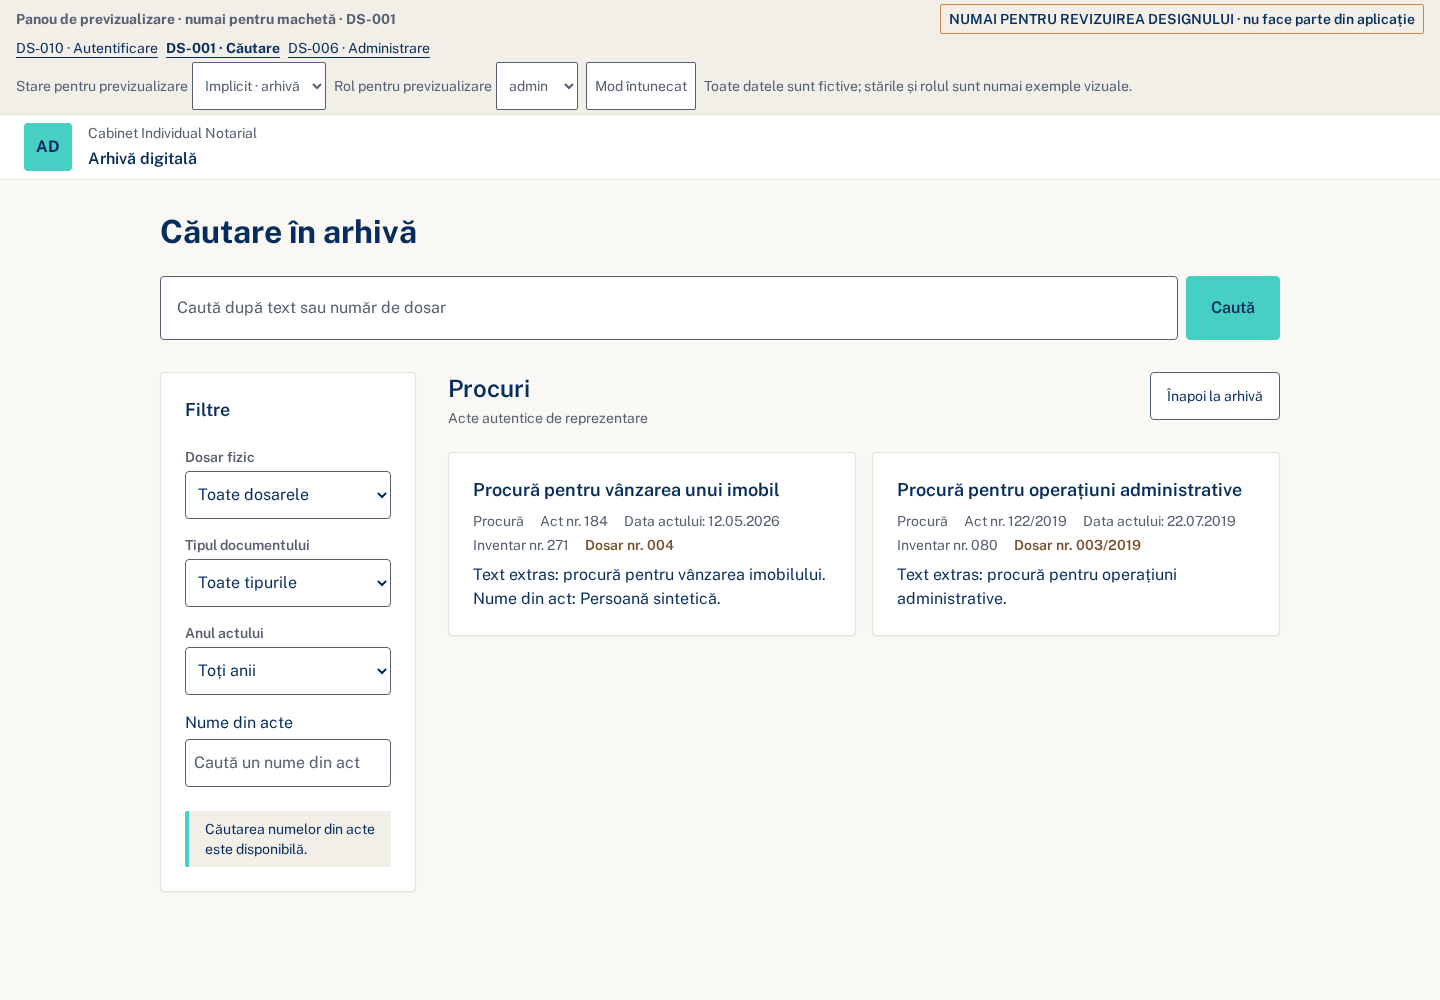
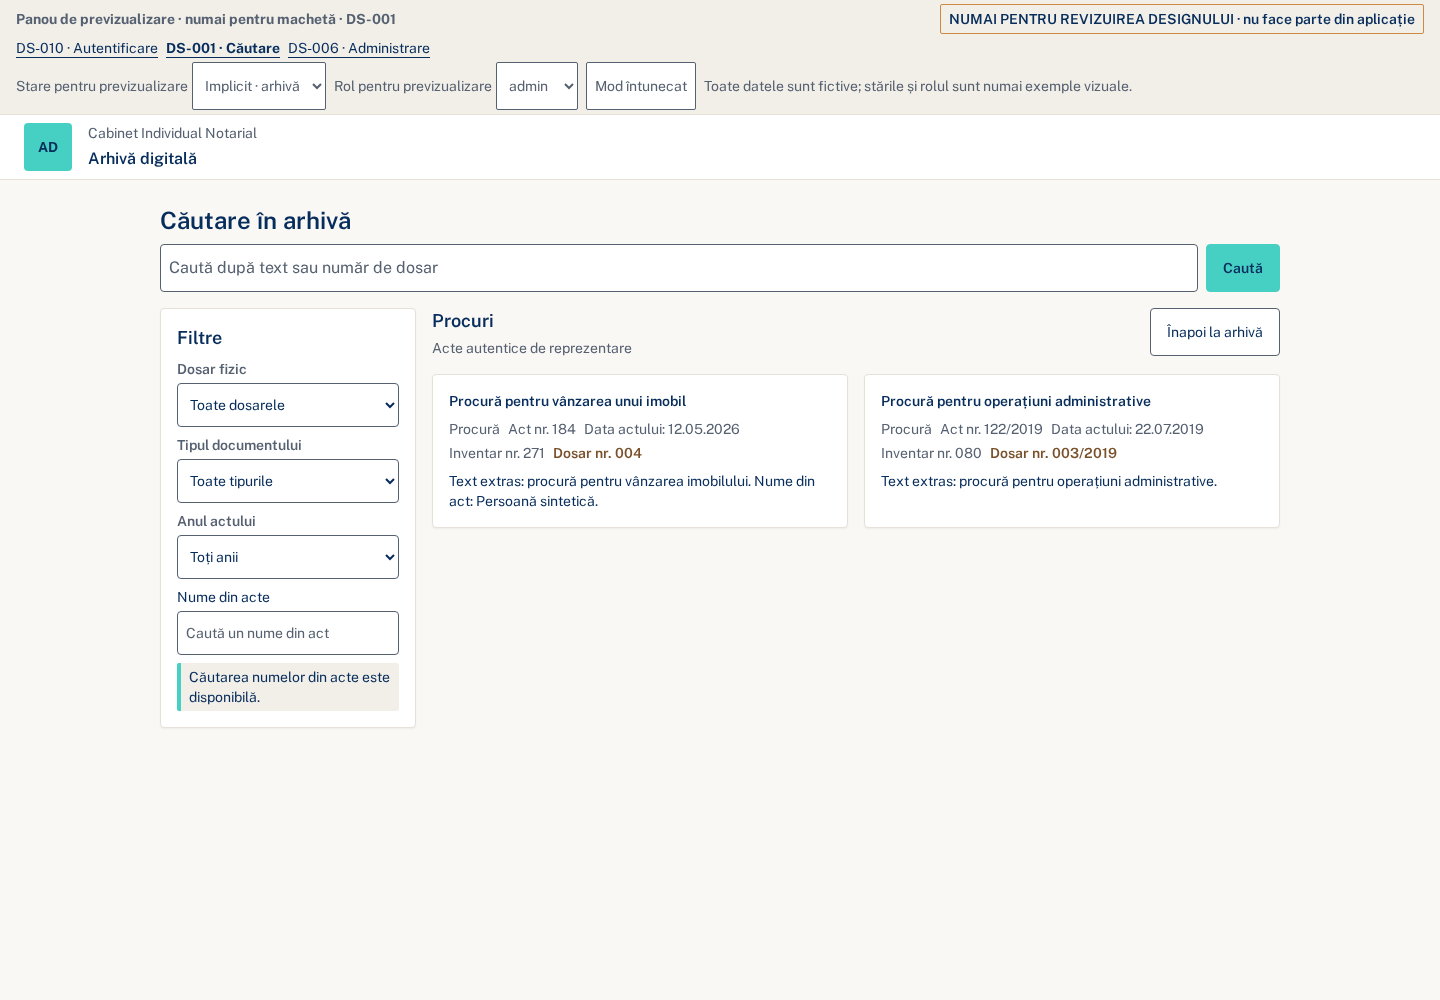
style(design): compact DS-001 archive explorer

diff --git a/docs/design/mocks/DS-001.html b/docs/design/mocks/DS-001.html
@@ -30,7 +30,7 @@
     }
     *, *::before, *::after { box-sizing: border-box; }
     [hidden] { display: none !important; }
-    body { margin: 0; background: var(--color-bg-primary); color: var(--color-text-primary); font: var(--text-body); }
+    body { margin: 0; background: var(--color-bg-primary); color: var(--color-text-primary); font: var(--text-small); }
     h1, h2, h3, p, ul { margin: 0; }
     ul { padding: 0; list-style: none; }
     button, input, select { font: inherit; color: inherit; }
@@ -48,50 +48,50 @@
     .header-copy { display: grid; gap: var(--space-xs); min-inline-size: 0; }
     .header-kicker { color: var(--color-text-secondary); font: var(--text-small); }
     .header-title { overflow: hidden; font: var(--text-body); font-weight: 600; text-overflow: ellipsis; white-space: nowrap; }
-    .wrap { inline-size: min(100%, calc(var(--space-3xl) * 18)); margin-inline: auto; padding: var(--space-xl) var(--space-md) var(--space-3xl); }
-    .page-intro { margin-block-end: var(--space-lg); }
-    .page-intro h1 { font: var(--text-h1); }
-    .search-form { display: grid; grid-template-columns: minmax(0, 1fr) auto; gap: var(--space-sm); margin-block-end: var(--space-xl); }
-    .search-input, .filter-select { min-inline-size: 0; inline-size: 100%; min-block-size: var(--space-3xl); padding: var(--space-sm) var(--space-md); border: thin solid var(--color-text-secondary); border-radius: var(--radius-md); background: var(--color-bg-surface); }
+    .wrap { inline-size: min(100%, calc(var(--space-3xl) * 18)); margin-inline: auto; padding: var(--space-lg) var(--space-md) var(--space-2xl); }
+    .page-intro { margin-block-end: var(--space-sm); }
+    .page-intro h1 { font: var(--text-h2); }
+    .search-form { display: grid; grid-template-columns: minmax(0, 1fr) auto; gap: var(--space-sm); margin-block-end: var(--space-md); }
+    .search-input, .filter-select { min-inline-size: 0; inline-size: 100%; min-block-size: var(--space-2xl); padding: var(--space-xs) var(--space-sm); border: thin solid var(--color-text-secondary); border-radius: var(--radius-md); background: var(--color-bg-surface); }
     .search-input { font: var(--text-body); }
     input::placeholder { color: var(--color-text-secondary); opacity: 1; }
-    .button, .expand-button, .folder-card, .back-button, .clear-search { display: inline-flex; align-items: center; justify-content: center; min-block-size: var(--space-2xl); padding: var(--space-sm) var(--space-lg); border: thin solid var(--color-text-secondary); border-radius: var(--radius-md); background: var(--color-bg-surface); color: var(--color-text-primary); font-weight: 600; text-decoration: none; cursor: pointer; transition: background-color var(--duration-fast), border-color var(--duration-fast); }
-    .button { min-block-size: var(--space-3xl); border-color: var(--color-accent-teal); background: var(--color-accent-teal); color: var(--color-version-navy); }
+    .button, .expand-button, .folder-card, .back-button, .clear-search { display: inline-flex; align-items: center; justify-content: center; min-block-size: var(--space-2xl); padding: var(--space-xs) var(--space-md); border: thin solid var(--color-text-secondary); border-radius: var(--radius-md); background: var(--color-bg-surface); color: var(--color-text-primary); font: var(--text-small); font-weight: 600; text-decoration: none; cursor: pointer; transition: background-color var(--duration-fast), border-color var(--duration-fast); }
+    .button { min-block-size: var(--space-2xl); border-color: var(--color-accent-teal); background: var(--color-accent-teal); color: var(--color-version-navy); }
     .button:hover, .folder-card:hover, .expand-button:hover, .back-button:hover, .clear-search:hover { border-color: var(--color-accent-mid); background: var(--color-bg-subtle); text-decoration: underline; }
     .button:hover { border-color: var(--color-focus-ring); background: var(--color-accent-teal); }
     .button:active, .folder-card:active, .expand-button:active, .back-button:active, .clear-search:active { text-decoration: underline; }
-    .archive-layout { display: grid; grid-template-columns: minmax(calc(var(--space-3xl) * 3), calc(var(--space-3xl) * 4)) minmax(0, 1fr); align-items: start; gap: var(--space-xl); }
-    .filter-sidebar { display: grid; gap: var(--space-lg); padding: var(--space-lg); border: thin solid var(--color-border); border-radius: var(--radius-md); background: var(--color-bg-surface); box-shadow: var(--shadow-card); }
+    .archive-layout { display: grid; grid-template-columns: minmax(calc(var(--space-3xl) * 3), calc(var(--space-3xl) * 4)) minmax(0, 1fr); align-items: start; gap: var(--space-md); }
+    .filter-sidebar { display: grid; gap: var(--space-sm); padding: var(--space-md); border: thin solid var(--color-border); border-radius: var(--radius-md); background: var(--color-bg-surface); box-shadow: var(--shadow-card); }
     .filter-sidebar h2 { font: var(--text-h3); }
-    .filters { display: grid; gap: var(--space-md); }
+    .filters { display: grid; gap: var(--space-sm); }
     .field { display: grid; gap: var(--space-xs); min-inline-size: 0; }
     .field label { color: var(--color-text-secondary); font: var(--text-small); font-weight: 600; }
-    .filter-select { min-block-size: var(--space-2xl); padding: var(--space-sm); }
-    .permission-note { padding: var(--space-sm) var(--space-md); border-inline-start: var(--space-xs) solid var(--color-accent-teal); border-radius: var(--radius-sm); background: var(--color-bg-subtle); font: var(--text-small); }
-    .content-column { display: grid; gap: var(--space-xl); min-inline-size: 0; }
-    .home-sections { display: grid; gap: var(--space-xl); }
-    .browse-section { display: grid; gap: var(--space-md); min-inline-size: 0; padding-block-end: var(--space-xl); border-block-end: thin solid var(--color-border); }
+    .filter-select { min-block-size: calc(var(--space-2xl) - var(--space-xs)); padding: var(--space-xs) var(--space-sm); font: var(--text-small); }
+    .permission-note { padding: var(--space-xs) var(--space-sm); border-inline-start: var(--space-xs) solid var(--color-accent-teal); border-radius: var(--radius-sm); background: var(--color-bg-subtle); font: var(--text-small); }
+    .content-column { display: grid; gap: var(--space-md); min-inline-size: 0; }
+    .home-sections { display: grid; gap: var(--space-md); }
+    .browse-section { display: grid; gap: var(--space-sm); min-inline-size: 0; padding-block-end: var(--space-md); border-block-end: thin solid var(--color-border); }
     .browse-heading, .view-heading, .results-toolbar { display: flex; align-items: center; justify-content: space-between; flex-wrap: wrap; gap: var(--space-sm); }
-    .browse-heading h2, .view-heading h2 { font: var(--text-h2); }
-    .expand-button { gap: var(--space-sm); min-block-size: var(--space-2xl); margin-inline-start: auto; padding-inline: var(--space-md); color: var(--color-primary); font: var(--text-small); }
+    .browse-heading h2, .view-heading h2 { font: var(--text-h3); }
+    .expand-button { gap: var(--space-sm); min-block-size: var(--space-2xl); margin-inline-start: auto; padding-inline: var(--space-sm); color: var(--color-primary); }
     .chevron { inline-size: var(--space-sm); block-size: var(--space-sm); border-inline-end: thin solid currentColor; border-block-end: thin solid currentColor; transform: rotate(45deg) translateY(calc(-1 * var(--space-xs))); transition: transform var(--duration-fast); }
     .browse-section.is-expanded .chevron { transform: rotate(225deg) translateY(calc(-1 * var(--space-xs))); }
     .folder-grid { display: grid; grid-template-columns: repeat(auto-fit, minmax(min(100%, calc(var(--space-3xl) * 3)), 1fr)); gap: var(--space-sm); }
-    .folder-card { justify-content: flex-start; gap: var(--space-md); min-inline-size: 0; min-block-size: calc(var(--space-3xl) * 1.5); padding: var(--space-md); text-align: start; }
-    .folder-symbol { position: relative; flex: none; inline-size: var(--space-xl); block-size: var(--space-lg); border: thin solid var(--color-accent-mid); border-radius: var(--radius-sm); background: var(--color-bg-subtle); }
-    .folder-symbol::before { position: absolute; inset-block-start: calc(-1 * var(--space-xs)); inset-inline-start: var(--space-xs); inline-size: var(--space-md); block-size: var(--space-xs); border: thin solid var(--color-accent-mid); border-block-end: 0; border-radius: var(--radius-sm) var(--radius-sm) 0 0; background: var(--color-bg-subtle); content: ''; }
+    .folder-card { justify-content: flex-start; gap: var(--space-sm); min-inline-size: 0; min-block-size: var(--space-2xl); padding: var(--space-xs) var(--space-sm); text-align: start; }
+    .folder-symbol { position: relative; flex: none; inline-size: var(--space-md); block-size: var(--space-sm); border: 0; border-radius: var(--radius-sm); background: var(--color-primary); }
+    .folder-symbol::before { position: absolute; inset-block-start: calc(-1 * var(--space-xs)); inset-inline-start: 0; inline-size: var(--space-sm); block-size: var(--space-xs); border: 0; border-radius: var(--radius-sm) var(--radius-sm) 0 0; background: var(--color-primary); content: ''; }
     .folder-copy { display: grid; gap: var(--space-xs); min-inline-size: 0; }
-    .folder-title { overflow-wrap: anywhere; font-weight: 600; }
+    .folder-title { overflow-wrap: anywhere; font: var(--text-small); font-weight: 600; }
     .folder-caption { color: var(--color-text-secondary); font: var(--text-small); }
     .folder-number { color: var(--color-archival-label-text); font-weight: 600; }
-    .recent-list { display: grid; gap: var(--space-sm); }
-    .recent-preview { display: grid; grid-template-columns: minmax(0, 1fr) auto; align-items: start; gap: var(--space-sm) var(--space-lg); min-inline-size: 0; padding: var(--space-md); border: thin solid var(--color-border); border-radius: var(--radius-md); background: var(--color-bg-surface); box-shadow: var(--shadow-card); }
+    .recent-list { display: grid; gap: var(--space-xs); }
+    .recent-preview { display: grid; grid-template-columns: minmax(0, 1fr) auto; align-items: start; gap: var(--space-xs) var(--space-md); min-inline-size: 0; padding: var(--space-sm) var(--space-md); border: thin solid var(--color-border); border-radius: var(--radius-md); background: var(--color-bg-surface); box-shadow: var(--shadow-card); }
     .recent-main { display: grid; gap: var(--space-xs); min-inline-size: 0; }
-    .recent-preview h3 { overflow-wrap: anywhere; font: var(--text-h3); }
-    .recent-meta { display: flex; flex-wrap: wrap; gap: var(--space-xs) var(--space-md); color: var(--color-text-secondary); font: var(--text-small); }
+    .recent-preview h3 { overflow-wrap: anywhere; font: var(--text-small); font-weight: 600; }
+    .recent-meta { display: flex; flex-wrap: wrap; gap: var(--space-xs) var(--space-sm); color: var(--color-text-secondary); font: var(--text-small); }
     .recent-added { display: grid; gap: var(--space-xs); justify-items: end; color: var(--color-text-secondary); font: var(--text-small); white-space: nowrap; }
-    .recent-added time { color: var(--color-text-primary); font-weight: 600; }
-    .view-panel { display: grid; gap: var(--space-lg); min-inline-size: 0; }
+    .recent-added time { color: var(--color-text-secondary); font-weight: 400; }
+    .view-panel { display: grid; gap: var(--space-md); min-inline-size: 0; }
     .view-heading { align-items: flex-start; }
     .view-title { display: grid; gap: var(--space-xs); min-inline-size: 0; }
     .view-title p { color: var(--color-text-secondary); font: var(--text-small); }
@@ -99,9 +99,9 @@
     .results-toolbar { justify-content: flex-start; color: var(--color-text-secondary); font: var(--text-small); }
     .results { display: grid; grid-template-columns: repeat(auto-fit, minmax(min(100%, calc(var(--space-3xl) * 4)), 1fr)); gap: var(--space-md); }
     .document-card { min-inline-size: 0; }
-    .document-card article { display: grid; align-content: start; gap: var(--space-sm); min-inline-size: 0; block-size: 100%; padding: var(--space-lg); border: thin solid var(--color-border); border-radius: var(--radius-md); background: var(--color-bg-surface); box-shadow: var(--shadow-card); }
-    .document-card h3 { overflow-wrap: anywhere; font: var(--text-h3); }
-    .document-metadata { display: flex; flex-wrap: wrap; gap: var(--space-xs) var(--space-md); color: var(--color-text-secondary); font: var(--text-small); }
+    .document-card article { display: grid; align-content: start; gap: var(--space-sm); min-inline-size: 0; block-size: 100%; padding: var(--space-md); border: thin solid var(--color-border); border-radius: var(--radius-md); background: var(--color-bg-surface); box-shadow: var(--shadow-card); }
+    .document-card h3 { overflow-wrap: anywhere; font: var(--text-small); font-weight: 600; }
+    .document-metadata { display: flex; flex-wrap: wrap; gap: var(--space-xs) var(--space-sm); color: var(--color-text-secondary); font: var(--text-small); }
     .dossier-number { color: var(--color-archival-label-text); font-weight: 600; }
     .excerpt { overflow-wrap: anywhere; }
     .state-message { padding: var(--space-md); border-inline-start: var(--space-xs) solid var(--color-accent-mid); border-radius: var(--radius-sm); background: var(--color-bg-subtle); overflow-wrap: anywhere; }
@@ -113,11 +113,11 @@
     .screen-reader-only { position: absolute; inline-size: var(--space-xs); block-size: var(--space-xs); overflow: hidden; clip-path: inset(50%); }
     @media (max-width: 1023px) { .archive-layout { grid-template-columns: minmax(0, 1fr); } .filter-sidebar { order: 0; } .content-column { order: 1; } }
     @media (max-width: 639px) {
-      .wrap { padding-block-start: var(--space-lg); }
-      .page-intro { margin-block-end: var(--space-md); }
-      .search-form { margin-block-end: var(--space-lg); }
+      .wrap { padding-block-start: var(--space-md); }
+      .page-intro { margin-block-end: var(--space-sm); }
+      .search-form { margin-block-end: var(--space-md); }
       .search-form .button { padding-inline: var(--space-md); }
-      .filter-sidebar { gap: var(--space-md); padding: var(--space-md); }
+      .filter-sidebar { gap: var(--space-sm); padding: var(--space-sm); }
       .recent-preview { grid-template-columns: minmax(0, 1fr); }
       .recent-added { grid-template-columns: auto auto; justify-content: start; justify-items: start; gap: var(--space-xs); }
       .results { grid-template-columns: minmax(0, 1fr); }
